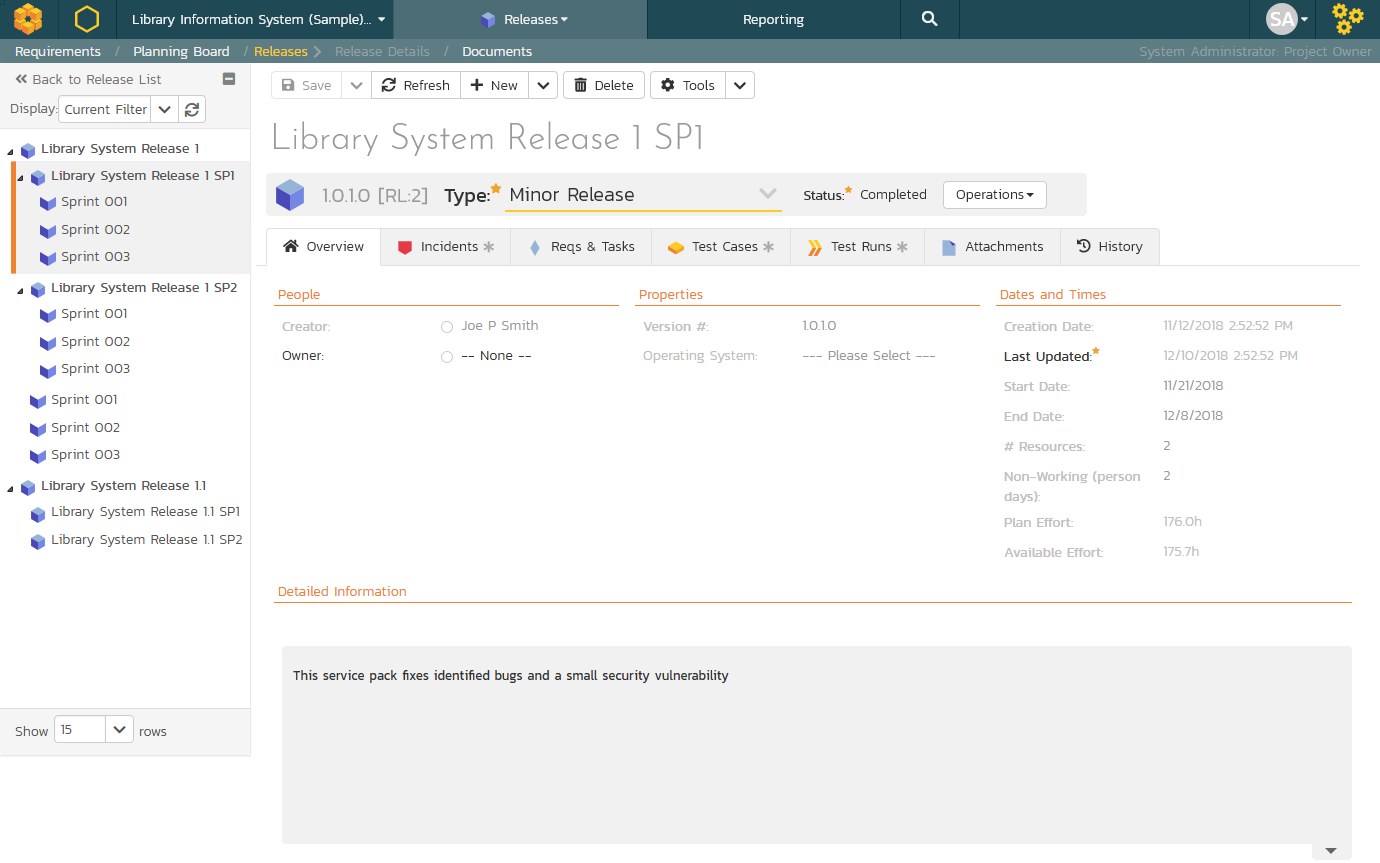
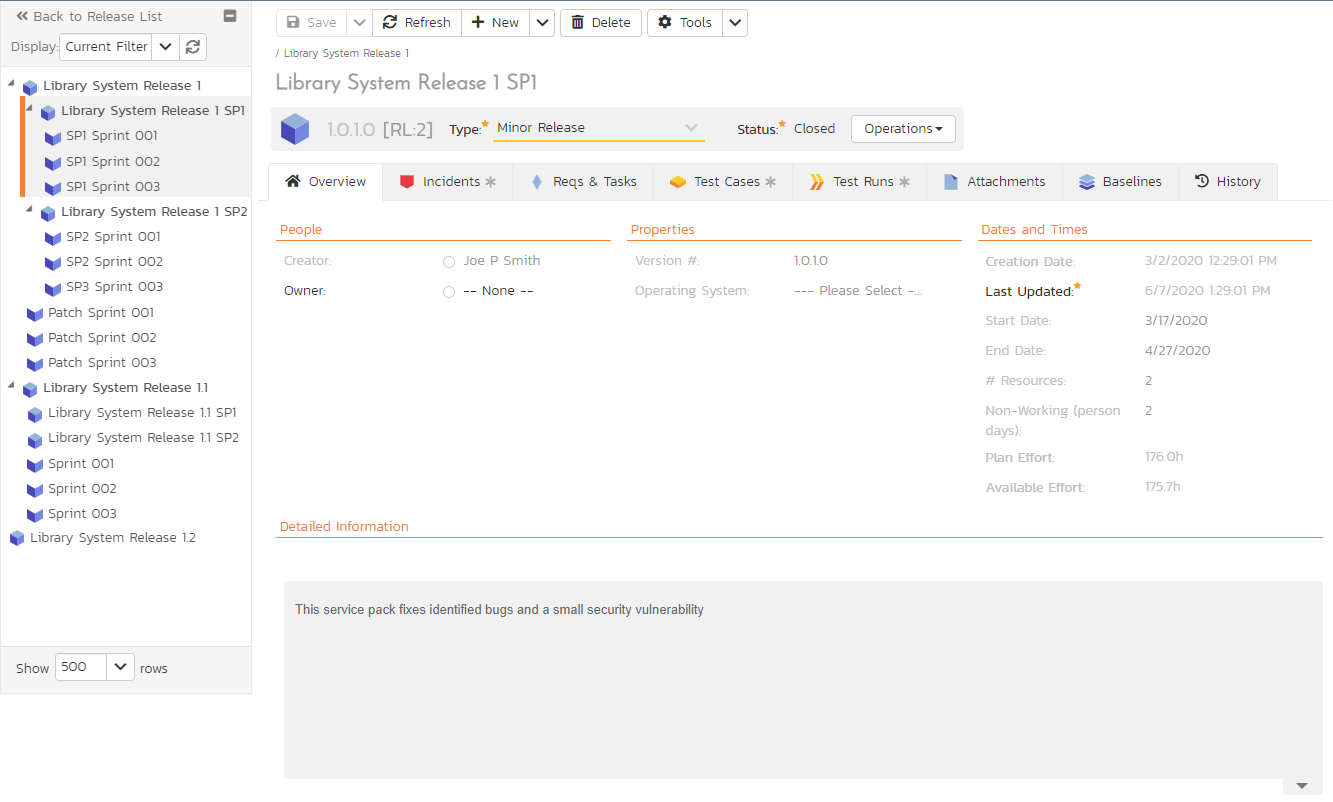
baselining details

diff --git a/docs/Spira-User-Manual/Release-Management.md b/docs/Spira-User-Manual/Release-Management.md
@@ -74,14 +74,25 @@ Task effort calculations are described in more detail [here](../User-Product-Man
 
 
 ## Baselining
-!!! info "How to Access Baselining"
-    Baselining is only available in SpiraTeam and SpiraPlan. It has to be enabled on a per product basis via the [edit product](../../Spira-Administration-Guide/System-Workspaces/#edit-a-product) page.
+NOTE: **Baselining is only available in SpiraTeam and SpiraPlan**.
 
-Baselining allows you to take a snapshot of the entire product at a specific point in time. You can use this feature to see the state of every test case, requirement, and incident as they were the moment that baseline was created. You can see how an artifact changed between 2 baselines.
+!!! question "What is baselining in SpiraPlan"
+    Baselining allows you to take a snapshot of the entire product at a specific point in time. You can use this feature to see the state of every test case, requirement, and incident as they were the moment that baseline was created. You can see how an artifact changed between 2 baselines.
 
-In SpiraPlan, we attach baselines to a release, as well as to the state of the product changes. This is to help you more easily use baselines as part of your release planning and review: baselines are, in effect, tied to the progress of your releases and sprints. You may wish to create a baseline when your release starts, and then create another when it is released. You may create a baseline at the end of every sprint and then use your baselines to see what happened between those two sprints.
+    In SpiraPlan, we attach baselines to a release, as well as to the state of the product changes. This is to help you more easily use baselines as part of your release planning and review: baselines are, in effect, tied to the progress of your releases and sprints. You may wish to create a baseline when your release starts, and then create another when it is released. You may create a baseline at the end of every sprint and then use your baselines to see what happened between those two sprints.
 
-There is more information below about how to create, edit, and view your baselines.
+Here is a step by step overview on getting started with baselines:
+
+- First, enable baselining for your specific product via the [edit product](../../Spira-Administration-Guide/System-Workspaces/#edit-a-product) page. You have to a system or product admin to do this
+- To make sure you cannot accidentally change anything that has already been baselined, when baselining is enabled, product admins will not be able to revert or purge any history items.
+- With baselining turned on you can create, edit, and delete baselines against any release in the product. The permissions for this are based off your release permissions. If you can view releases, you can view any baselines against that release. If you can create releases, you can baselines. If you can edit a release you can eidt its baselines. And if you can delete releases you can delete baselines.
+- Go to the list of releases and click on the release you want to manage baselines for
+- Click on the baselines tab to see your list of baselines
+- You can sort or filter the list of baselines by any of the fields in the table
+- To add a baseline, click the add button and fill in the details on the popup form
+- To do more with baselines you can create a custom report for them (examples [here](https://www.inflectra.com/Support/KnowledgeBase/KB550.aspx)). NOTE: in-app reports and other features for viewing baseline data will be added in future releases.
+
+[Below](#baselines) is more information below about how to create, edit, delete, and view your baselines against a specific release.
 
 ## Release List
 
@@ -253,9 +264,7 @@ When you click on release item in the [release list](#release-list), you are tak
 This page is made up of *three* areas;
 
 1.  the left pane displays the releases list navigation;
-
 2.  the right pane's header, which displays: the operations toolbar; [the hierarchical structure the release is in](Application-Wide.md#breadcrumbs); the editable name of the selected release; and the info bar (with a shaded background), which also contains the workflow status transitions (see below); and
-
 3.  the right pane's tabbed interface with rich information related to the release.
 
 Please note that on smaller screen sizes the navigation pane is not displayed. While the navigation pane has a link to take you back to the releases list, on mobile devices a 'back' button is shown on the left of the operations toolbar.
@@ -265,7 +274,6 @@ The navigation pane can be collapsed by clicking on the "-" button, or expanded 
 The navigation pane consists of a link that will take you back to the release list, as well as a list of the other releases in the current product. This latter list is useful as a navigation shortcut; you can quickly view the test run information of all the other releases by clicking on the navigation links without having to first return to the release list page. The navigation list can be switched between two different modes:
 
 -   The list of releases matching the current filter
-
 -   The list of all releases, irrespective of the current filter
 
 
@@ -275,17 +283,14 @@ The lower part of the right pane can be in one of seven possible modes that can 
 
 
 ### Emailing
-
 Read about [emailing an artifact to colleagues using Spira](Application-Wide.md#emailing).
 
 
 ### Followers
-
 Read about [how to add and manage followers to an artifact](Application-Wide.md#followers).
 
 
 ### Workflows and Statuses
-
 Releases can have the following statuses: planned, in progress, completed, closed, deferred, and cancelled. Note that releases marked as closed, deferred, or cancelled cannot be associated with other artifacts -- for example an incident's planned release cannot by a cancelled release.
 
 Read about [using workflows to change the status of your artifact](Application-Wide.md#workflows).
@@ -304,7 +309,6 @@ days, the system will automatically calculate how many hours of effort (planned 
 
 
 ### Overview -- Detailed Information
-
 The Detailed Information section contains the long, formatted description of the requirement, as well as any rich text custom fields. You can enter rich text or paste in from a word processing program or web page into these fields. Clicking on the shaded areas of one of these detailed fields will display the rich text toolbar.
 
 
@@ -377,17 +381,12 @@ Clicking on a requirement will bring up the [requirement details page](../Requir
 
 You can perform the following actions on a task from this screen:
 
-**Insert Task** -- inserts a new task in the task list under the specified requirement, with a default set of values. The task will be associated with the specified requirement and current release/sprint. If no requirement is selected, the task will only be associated with the current release/sprint
-
-**Delete** -- deletes the task from the product.
-
-**Refresh** -- updates the list of requirements and tasks from the server, useful if other people are adding requirements and/or tasks to this release/sprint at the same time.
-
-You can **filter** the results by choosing items from the filter options displayed in the sub-header row of each field and clicking the "***Filter***" button. In addition, you can quickly sort the list by clicking on one of the directional arrow icons displayed in the header row of the appropriate field.
-
-**Edit** -- Clicking the "***Edit***" button to the right of the requirement or task allows you to edit the item inline directly on this screen. Only columns visible will be editable.
-
-**Show Level** -- Allows you to quickly expand/collapse all the requirements in the list.
+- **Insert Task**: inserts a new task in the task list under the specified requirement, with a default set of values. The task will be associated with the specified requirement and current release/sprint. If no requirement is selected, the task will only be associated with the current release/sprint
+- **Delete**: deletes the task from the product.
+- **Refresh**: updates the list of requirements and tasks from the server, useful if other people are adding requirements and/or tasks to this release/sprint at the same time.
+- You can **filter** the results by choosing items from the filter options displayed in the sub-header row of each field and clicking the "***Filter***" button. In addition, you can quickly sort the list by clicking on one of the directional arrow icons displayed in the header row of the appropriate field.
+- **Edit**: Clicking the "***Edit***" button to the right of the requirement or task allows you to edit the item inline directly on this screen. Only columns visible will be editable.
+- **Show Level**: Allows you to quickly expand/collapse all the requirements in the list.
 
 
 ### Test Cases
@@ -430,12 +429,38 @@ You can also filter the results by choosing items from the filter options displa
 
 
 ### Attachments
-
 Read about [how the attachments tab works](Application-Wide.md#attachments)
 
 
-### History
+### Baselines
+NOTE: **Baselining is only available in SpiraTeam and SpiraPlan** and this tab will be only then be visible if baselining has been turned on for a product.
 
+This view displays the list of all baselines created for this release. If you have permissions for releases to create/modify/delete then you can perform the same actions for baselines.
+
+![baselines tab](img/Release_Management_baselines_tab.png)
+
+You can view the following information about a baseline here:
+
+- Name (for product admins this links to the specific producy history change)
+- Description
+- Creator
+- Date (hover to see a tooltip of the date and time)
+- Active (yes or no)
+- Change ID (product admins only - this is the system wide history change id that the baseline is linked to)
+- ID
+
+To **add a new baseline**, click the `New Baseline` button. This will be disabled if you are not able to create releases. This will open up a small form. The name field is required, but the description field is optional. Enter the information and hit `Add`. NOTE: a baseline's description is plain text only.
+
+![adding a new baseline](img/Release_Management_baselines_tab_add.png)
+
+You can **edit** an existing baseline as long as you can edit the specific release the baseline belongs to. If you see `Edit` buttons on the table of baselines that means you can edit. You can edit a baselines name, its description, and whether it is active or not.
+
+If you can **delete** releases you can delete any baseline on any release. To do so click select the baselines to delete (put a checkmark next to it) and click the `Delete` button. 
+
+To filter and sort the list of baselines, use the filter and sort controls at the top of the table.
+
+
+### History
 Read about [how the history tab works](Application-Wide.md#history)
 
 

diff --git a/docs/About/release-notes-v6.md b/docs/About/release-notes-v6.md
@@ -4,6 +4,8 @@
 
 !!! info "Summary"
     **Baselining (SpiraTeam and SpiraPlan only)**: Enable baselining by product to add baselines to releases or sprints. Use baselines to create snapshots of the entire product at a specific point in time, for instance what it looked like at the start and then at the end of a sprint. 
+    
+    *Learn: read our blog about this feature [here](http://www.inflectra.com/Ideas/Entry/spira-652-requirements-test-case-baselining-1051.aspx), or read our [documentation overview](../../Spira-User-Manual/Release-Management/#baselining)
 
     **[Testing Settings](../../Spira-Administration-Guide/Product-Planning/#testing-settings)**: testing settings are now managed at the product, not system, level. Not only that but there are now lots more ways to tailor how testing behaves.
 
@@ -17,10 +19,10 @@
     * Custom Reports
         - Enable custom reports to use ${ReleaseId} and ${ReleaseAndChildIds} [tokens](../../Reporting/Custom-Reporting-Tokens) in their ESQL as is already possible for custom graphs [RQ:2976]
 
-    * Baselining (SpiraTeam and SpiraPlan only)
-        - Baselining toggle is visible and usable in SpiraTeam and SpiraPlan on the Admin Product page [RQ:2672] (released but disabled in 6.5.1)
-        - Turning on baselining for a product disables the ability to purge or revert product history [RQ:2938] (released but disabled in 6.5.1)
-        - Turning on baselining for a product shows the baseline tab on the release details page [RQ:2940]
+    * [Baselining](../../Spira-User-Manual/Release-Management/#baselining) (SpiraTeam and SpiraPlan only)
+        - Baselining toggle is visible and usable in SpiraTeam and SpiraPlan on the [Admin Product page](../../Spira-Administration-Guide/System-Workspaces/#add-a-new-product) [RQ:2672] (released but disabled in 6.5.1)
+        - Turning on baselining for a product disables the ability to purge or revert [product history](../../Spira-Administration-Guide/Product-General-Settings/#history-details-screen) [RQ:2938] (released but disabled in 6.5.1)
+        - Turning on baselining for a product shows the [baseline tab](../../Spira-User-Manual/Release-Management/#baselines) on the release details page [RQ:2940]
         - Baseline tab on the release details page lets you view existing baselines [RQ:2664]
         - Users with equivalent release permissions can add/edite/delete a new baseline from the baseline tab on a release details page [RQ:2662]
         - A new [custom reportable entity](../../Reporting/Custom-Report-Tables/#baselines) lets users create custom reports for baselines [RQ:2873]
@@ -51,7 +53,7 @@
         - Like we have done for exploratory testing since we introduced it, auto save actual results during normal test execution [IN:5626]
 
     * Home pages
-        - Improve the styling of the My Page News Reader widget [IN:5718]
+        - Improve the styling of the My Page [News Reader widget](../../Spira-User-Manual/User-Product-Management/#my-news-feeds) [IN:5718]
         - The default Product Home page should not show an authorization error if requirement view permission is lacking [IN:5661]
         - The Product Home page should not show an authorization error if attempting to view the commits widget but you do not have the permission to view source code [IN:5714]
         - Program, portfolio, enterprise schedule widgets should not show releases with an inactive parent detached from a workspace [IN:5687]

diff --git a/docs/Spira-Administration-Guide/Product-General-Settings.md b/docs/Spira-Administration-Guide/Product-General-Settings.md
@@ -36,7 +36,10 @@ The History Details screen will show basic information as well as fields that we
 
 If a set of fields were affected (Standard or Custom), then the list of fields will be listed below. In the example above, the change was a Modification, and 5 fields were changed. In other change types, no fields will be displayed.
 
-If the artifact is still available in the system, you can click the Artifact or click the 'View Item' button in the toolbar to view the item as it is currently. However, if the item has been deleted, a warning label will be displayed (as above in the example screenshot), the View Item links will be disabled, and a new option, "Purge" will appear on the toolbar (providing baselining is not currently enabled for this product).
+If the artifact is still available in the system, you can click the Artifact or click the 'View Item' button in the toolbar to view the item as it is currently. However, if the item has been deleted, a warning label will be displayed (as above in the example screenshot), the View Item links will be disabled, and a new option, "Purge" will appear on the toolbar.
+
+!!! info "If baselining is turned on"
+    If baselining is enabled for this product, you will not be able to revert or purge any history item and the relevant buttons will not even be visible to you.
 
 
 ### Purging Items

diff --git a/docs/Reporting/Custom-Report-Tables.md b/docs/Reporting/Custom-Report-Tables.md
@@ -134,6 +134,8 @@
 - LAST_CONTACT_DATE
 
 ## Baselines
+See [this KB](https://www.inflectra.com/Support/KnowledgeBase/KB550.aspx) for some examples of using this custom report table.
+
 - BASELINE_ID
 - PROJECT_ID
 - CREATOR_USER_ID
